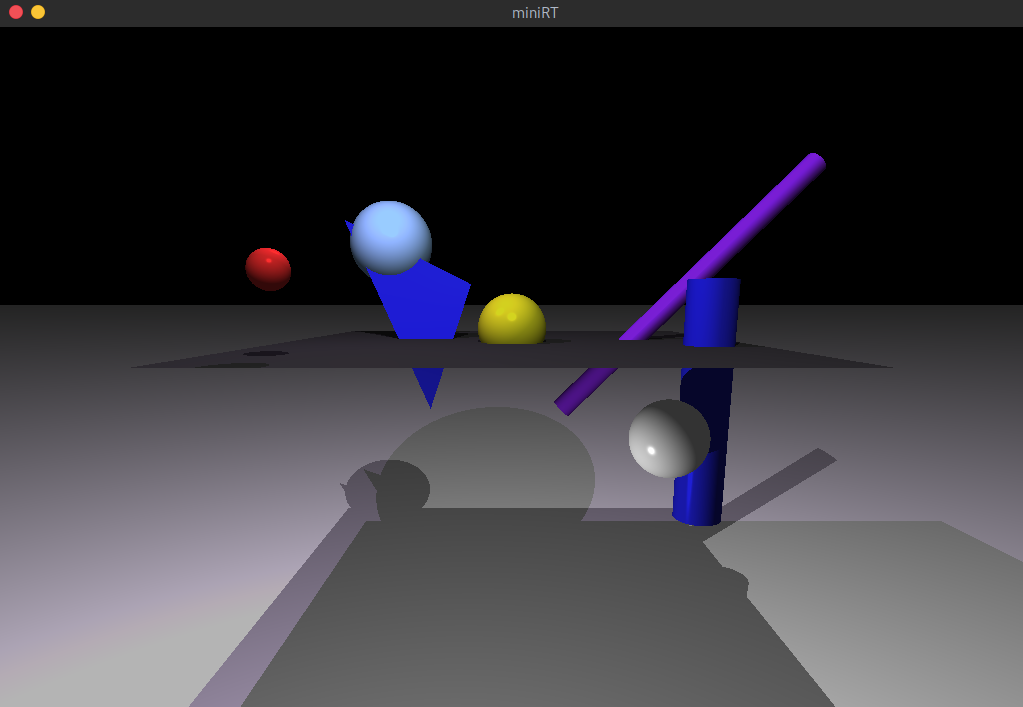
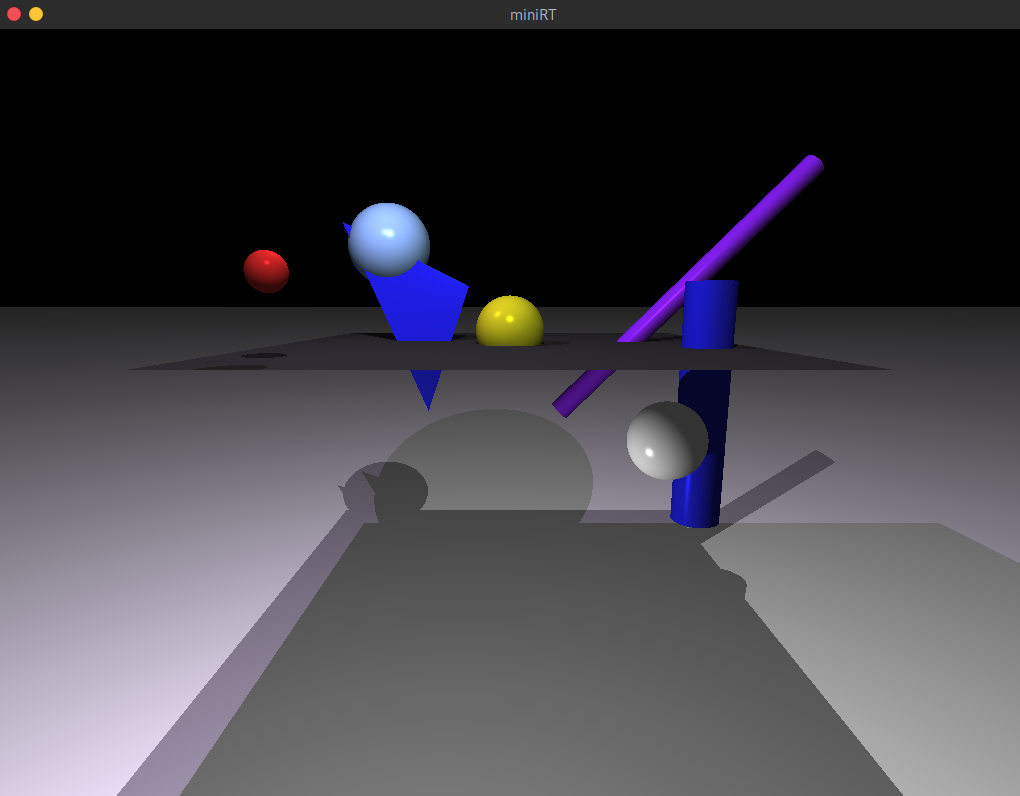
Minor changes

diff --git a/src/rendering/trace_ray_to_lights.c b/src/rendering/trace_ray_to_lights.c
@@ -6,7 +6,7 @@
 /*   By: mboivin <mboivin@student.42.fr>            +#+  +:+       +#+        */
 /*                                                +#+#+#+#+#+   +#+           */
 /*   Created: 2020/07/21 21:32:12 by mboivin           #+#    #+#             */
-/*   Updated: 2020/09/09 00:59:47 by mboivin          ###   ########.fr       */
+/*   Updated: 2020/09/11 00:58:58 by mboivin          ###   ########.fr       */
 /*                                                                            */
 /* ************************************************************************** */
 
@@ -43,7 +43,8 @@ void			compute_lighting(
 	double		coef;
 
 	light_dir = sub_vec3(light->pos, ray->hit_p);
-	angle = fmax(0.0, dot_vec3(ray->normal, normalize_vec3(light_dir)));
+	angle = dot_vec3(ray->normal, normalize_vec3(light_dir));
+	coef = DEFAULT_VALUE;
 	if (!is_in_shadow(objs, ray, light_dir) && angle > 0.0)
 	{
 		coef = light->ratio * cos_vec3(ray->normal, normalize_vec3(light_dir));

diff --git a/src/bonus/get_specular.c b/src/bonus/get_specular.c
@@ -6,7 +6,7 @@
 /*   By: mboivin <mboivin@student.42.fr>            +#+  +:+       +#+        */
 /*                                                +#+#+#+#+#+   +#+           */
 /*   Created: 2020/07/21 21:32:12 by mboivin           #+#    #+#             */
-/*   Updated: 2020/09/09 00:00:43 by mboivin          ###   ########.fr       */
+/*   Updated: 2020/09/11 00:54:01 by mboivin          ###   ########.fr       */
 /*                                                                            */
 /* ************************************************************************** */
 
@@ -19,6 +19,7 @@ double		get_specular(
 	t_vec3	reflect;
 	double	coef;
 
+	coef = DEFAULT_VALUE;
 	rev_dir = scale_vec3(-1, ray->dir);
 	reflect = sub_vec3(
 		scale_vec3(2 * angle, ray->normal), normalize_vec3(light_dir));
